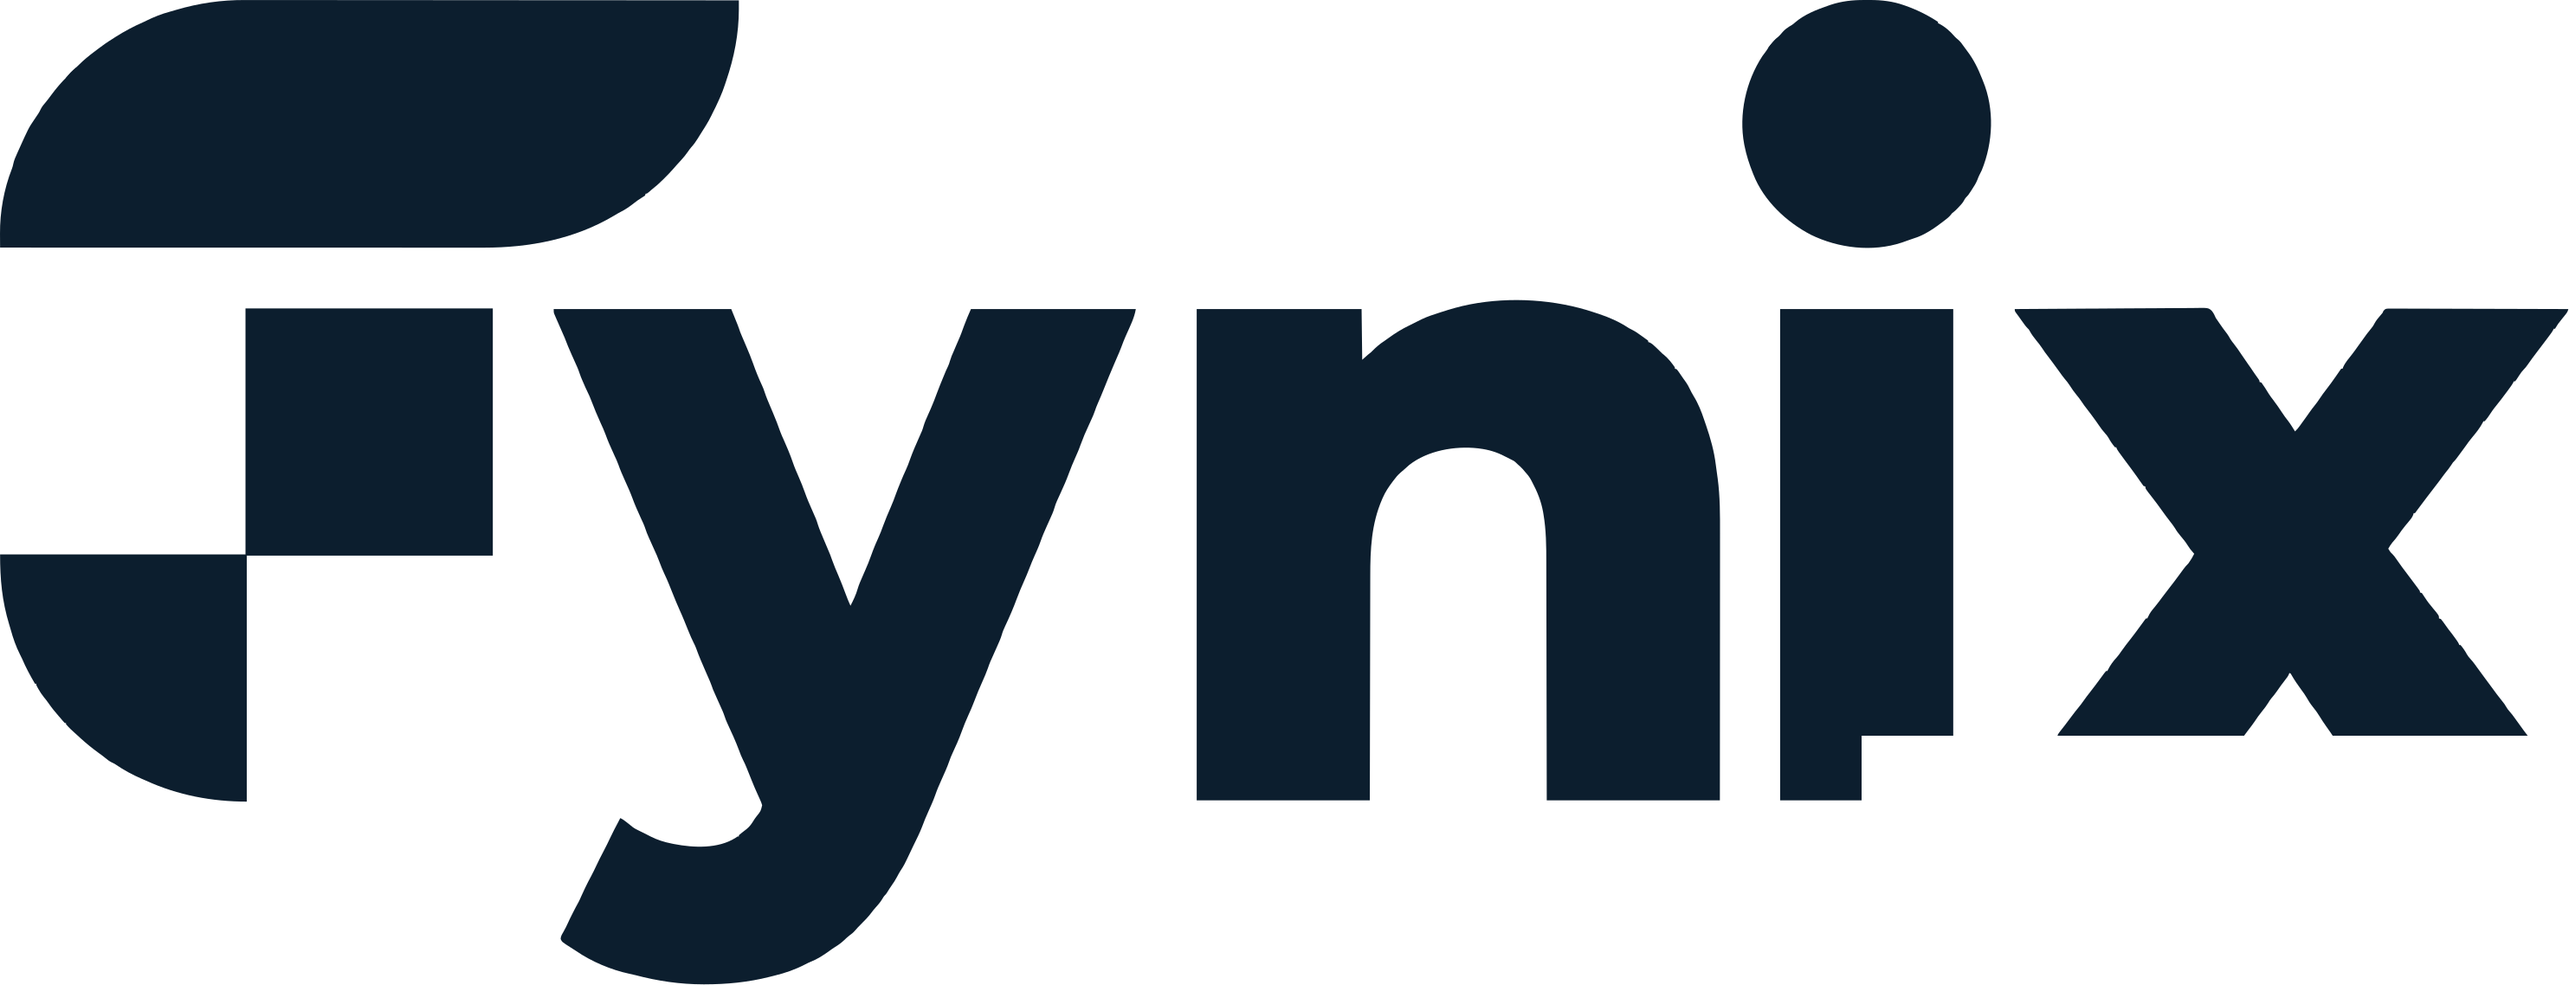
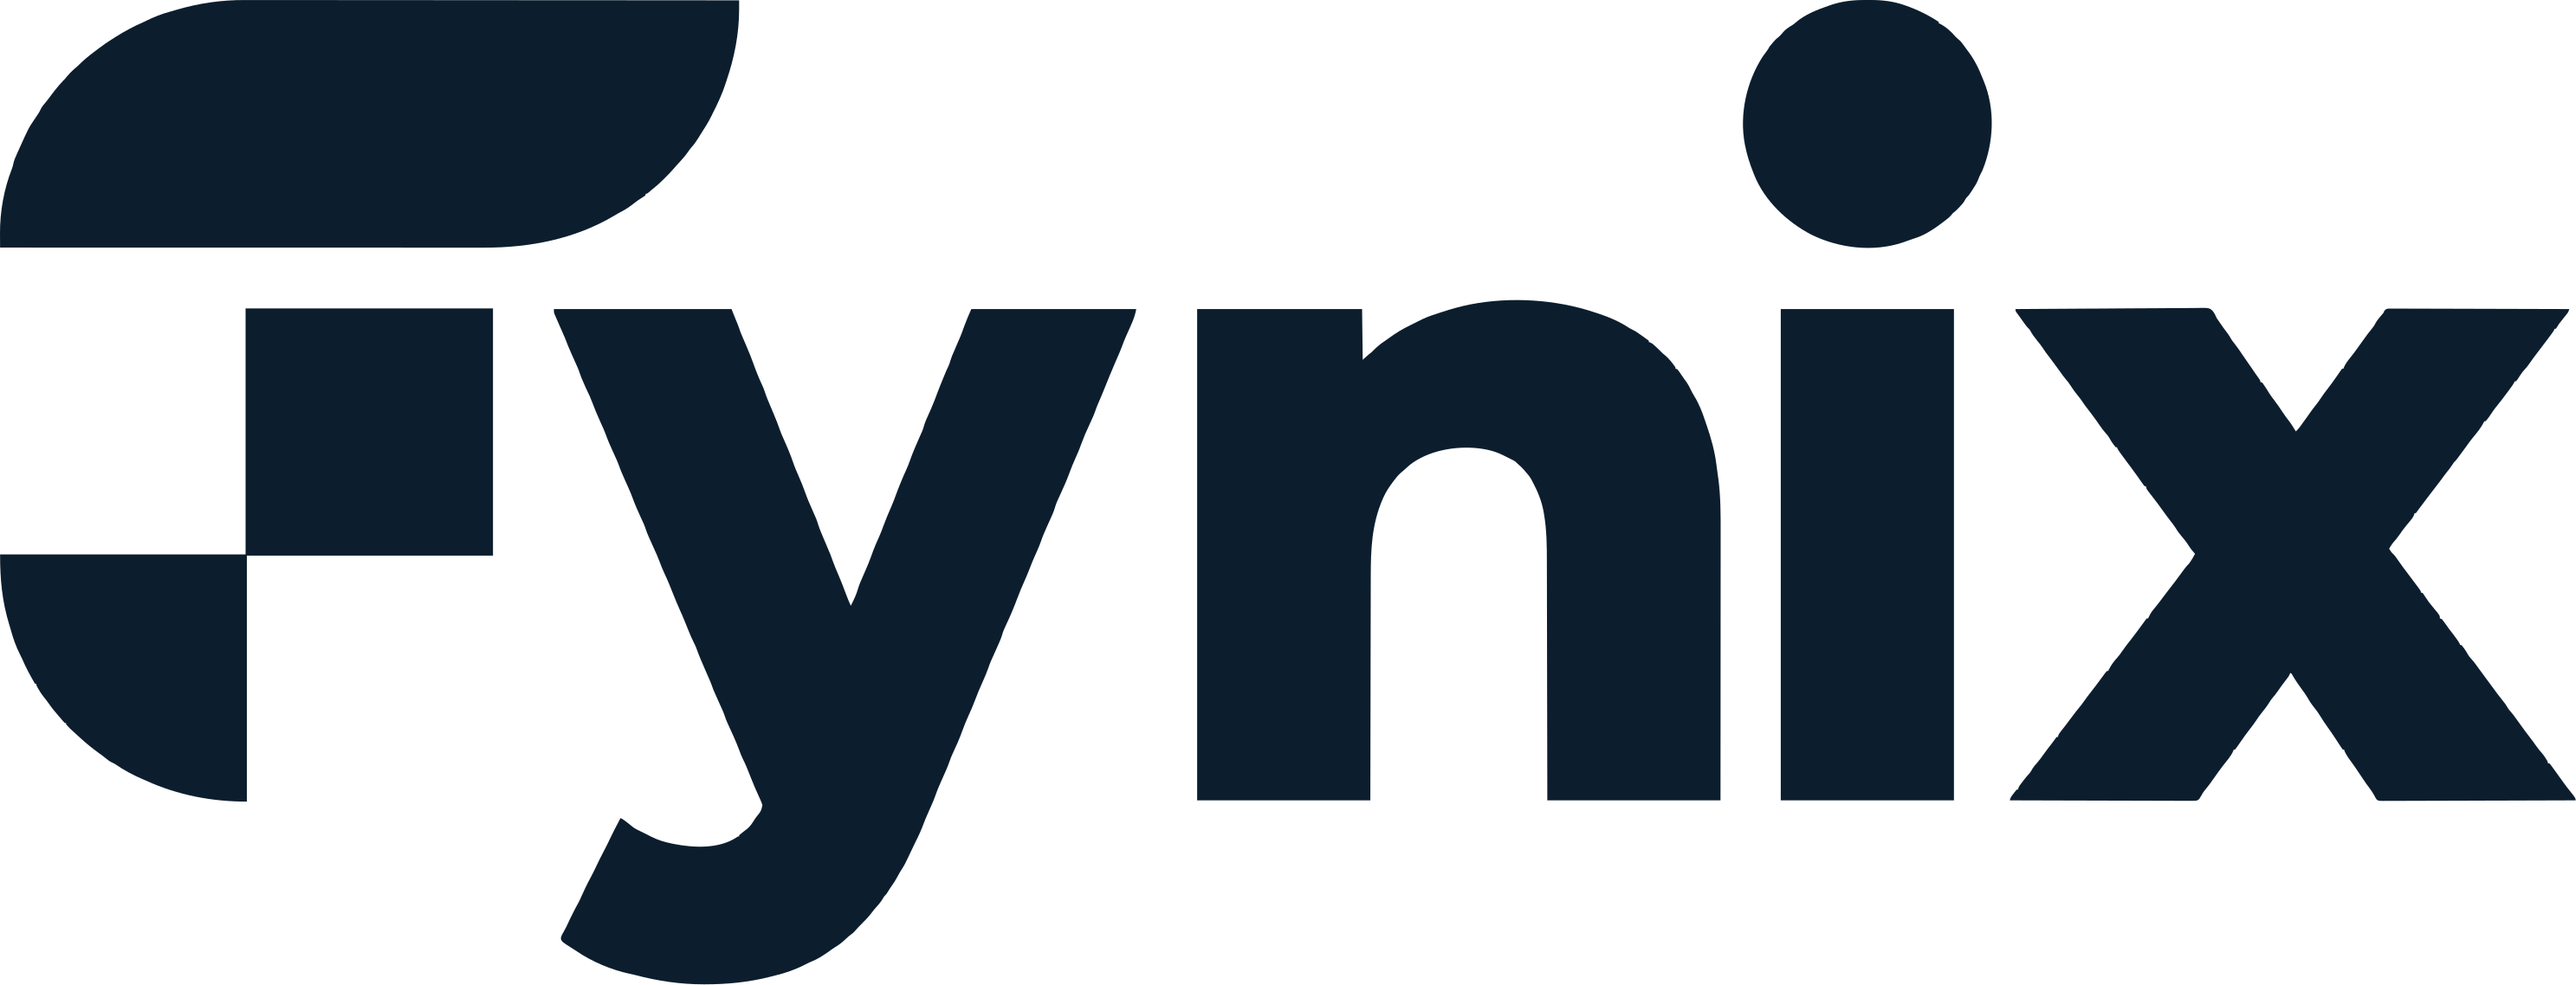
Fix i and x getting clipped in the footer wordmark
The rectangle I used to erase the 'Digital' tagline from the rendered
logo was too tall and ate into the bottom of the 'i' and 'x' glyphs,
which extend further down than I'd measured. Re-measured the actual
baseline (i/x ink ends ~y=930 at the 3000px-wide render, 'Digital'
starts ~y=1030) and redid the erase starting safely below both, so
the letters keep their true, uncut shape.

diff --git a/app/globals.css b/app/globals.css
@@ -890,7 +890,7 @@ select:not(:disabled) {
    into the footer rather than printed on it. */
 .footer-wordmark {
   width: 100%;
-  aspect-ratio: 2967 / 1138;
+  aspect-ratio: 2974 / 1138;
   background: linear-gradient(180deg, rgba(233, 175, 136, 0.55) 0%, rgba(255, 255, 255, 0.22) 35%, rgba(255, 255, 255, 0.08) 100%);
   -webkit-mask: url("/footer/fynix-wordmark.png") center / 100% 100% no-repeat;
   mask: url("/footer/fynix-wordmark.png") center / 100% 100% no-repeat;
